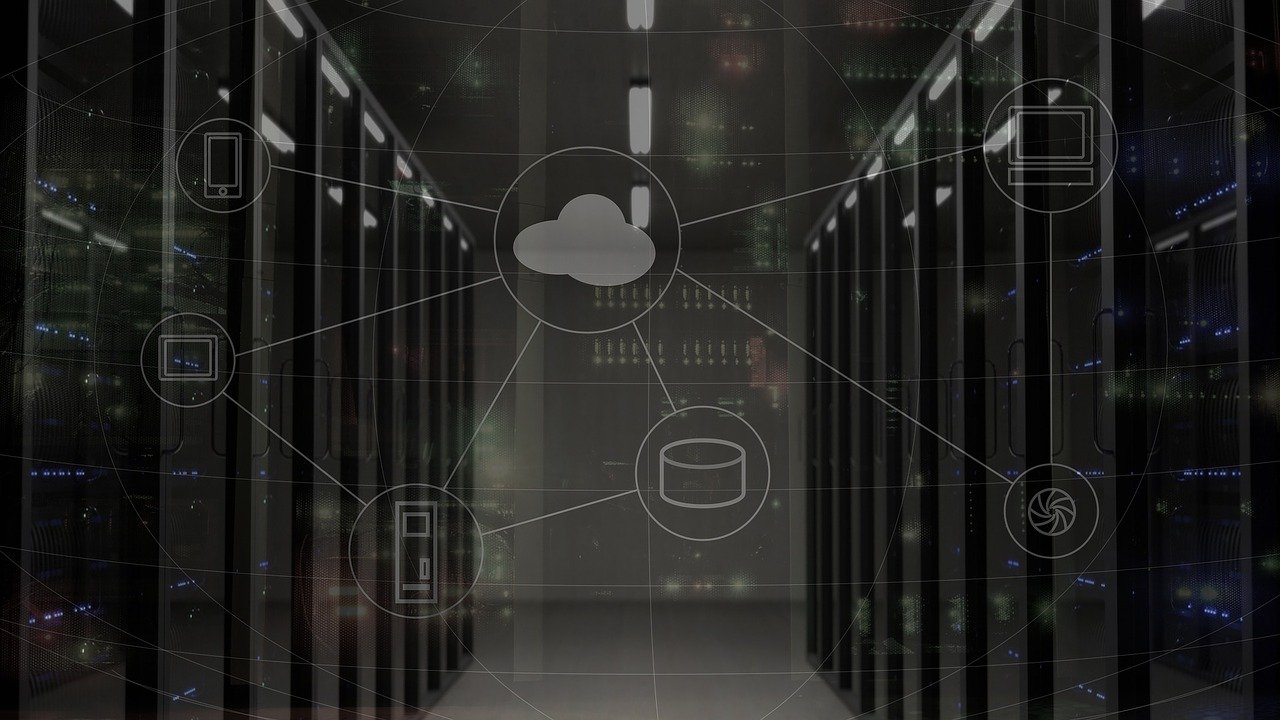
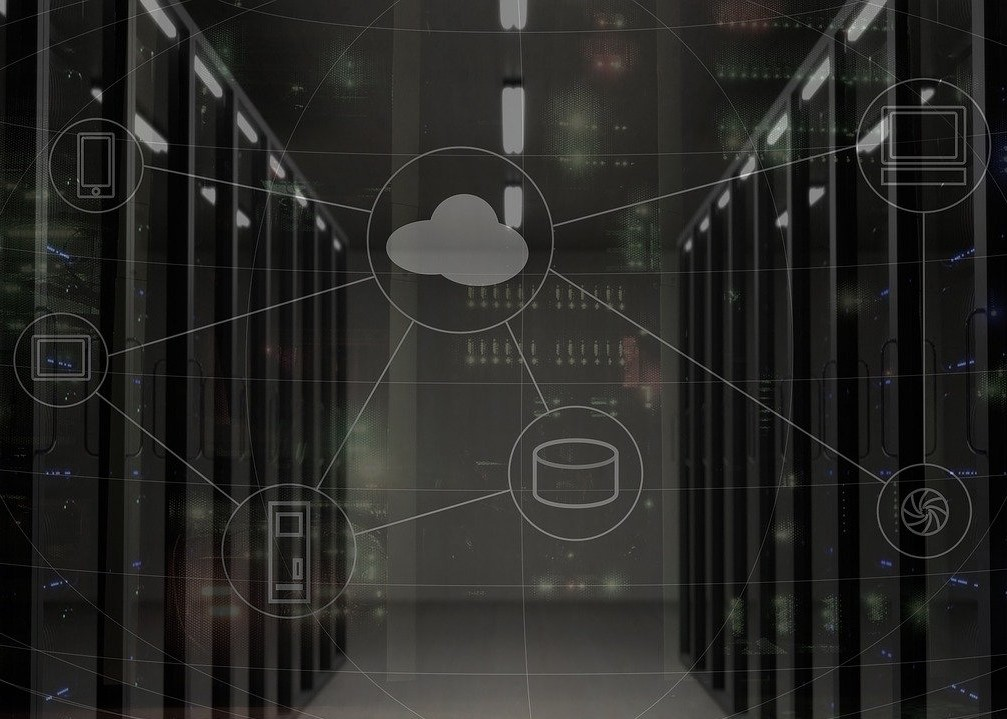
Добавлены стили на главную страницу

diff --git a/web/css/site.css b/web/css/site.css
@@ -7,8 +7,8 @@ body {
     min-height: 100%;
     height: auto;
     margin: 0 auto -60px;
-    padding: 0 0 60px;
-    background: url("../images/network-2402637_1280.jpg") no-repeat;
+    padding: 0 0 120px;
+    background: url("../images/network-2402637.jpg") no-repeat;
 }
 
 .wrap > .container {
@@ -16,7 +16,7 @@ body {
 }
 
 .footer {
-    height: 60px;
+    height: 110px;
     background-color: #f5f5f5;
     border-top: 1px solid #ddd;
     padding-top: 20px;
@@ -24,7 +24,7 @@ body {
 
 .jumbotron {
     text-align: center;
-    background-color: rgba(245,245,245,0.7);
+    background-color: rgba(245,245,245,0.9);
 }
 
 .jumbotron h1{
@@ -43,13 +43,13 @@ body {
     margin-bottom: 25px;
 }
 
-table{
-    border-collapse: separate;
-}
-
 .rates-row{
     color: #f5f5f5;
     font-size: 21px;
+}
+
+table{
+    margin-bottom: 50%;
 }
 
 table tbody tr:nth-of-type(odd){

diff --git a/views/layouts/main.php b/views/layouts/main.php
@@ -32,7 +32,7 @@ AppAsset::register($this);
         'brandLabel' => 'Главная',
         'brandUrl' => Yii::$app->homeUrl,
         'options' => [
-            'class' => 'navbar-inverse navbar-fixed-top',
+            'class' => 'navbar-inverse',
         ],
     ]);
     $items = [
@@ -77,8 +77,8 @@ AppAsset::register($this);
 
 <footer class="footer">
     <div class="container">
-        <p class="pull-left">&copy; My Company <?= date('Y') ?></p>
-
+        <p>Изображение <a href="https://pixabay.com/ru/users/bsdrouin-5016447/?utm_source=link-attribution&amp;utm_medium=referral&amp;utm_campaign=image&amp;utm_content=2402637">Bethany Drouin</a> с сайта <a href="https://pixabay.com/ru/?utm_source=link-attribution&amp;utm_medium=referral&amp;utm_campaign=image&amp;utm_content=2402637">Pixabay</a></p>
+        <p>&copy; My Company <?= date('Y') ?></p>
         <p class="pull-right"><?= Yii::powered() ?></p>
     </div>
 </footer>
